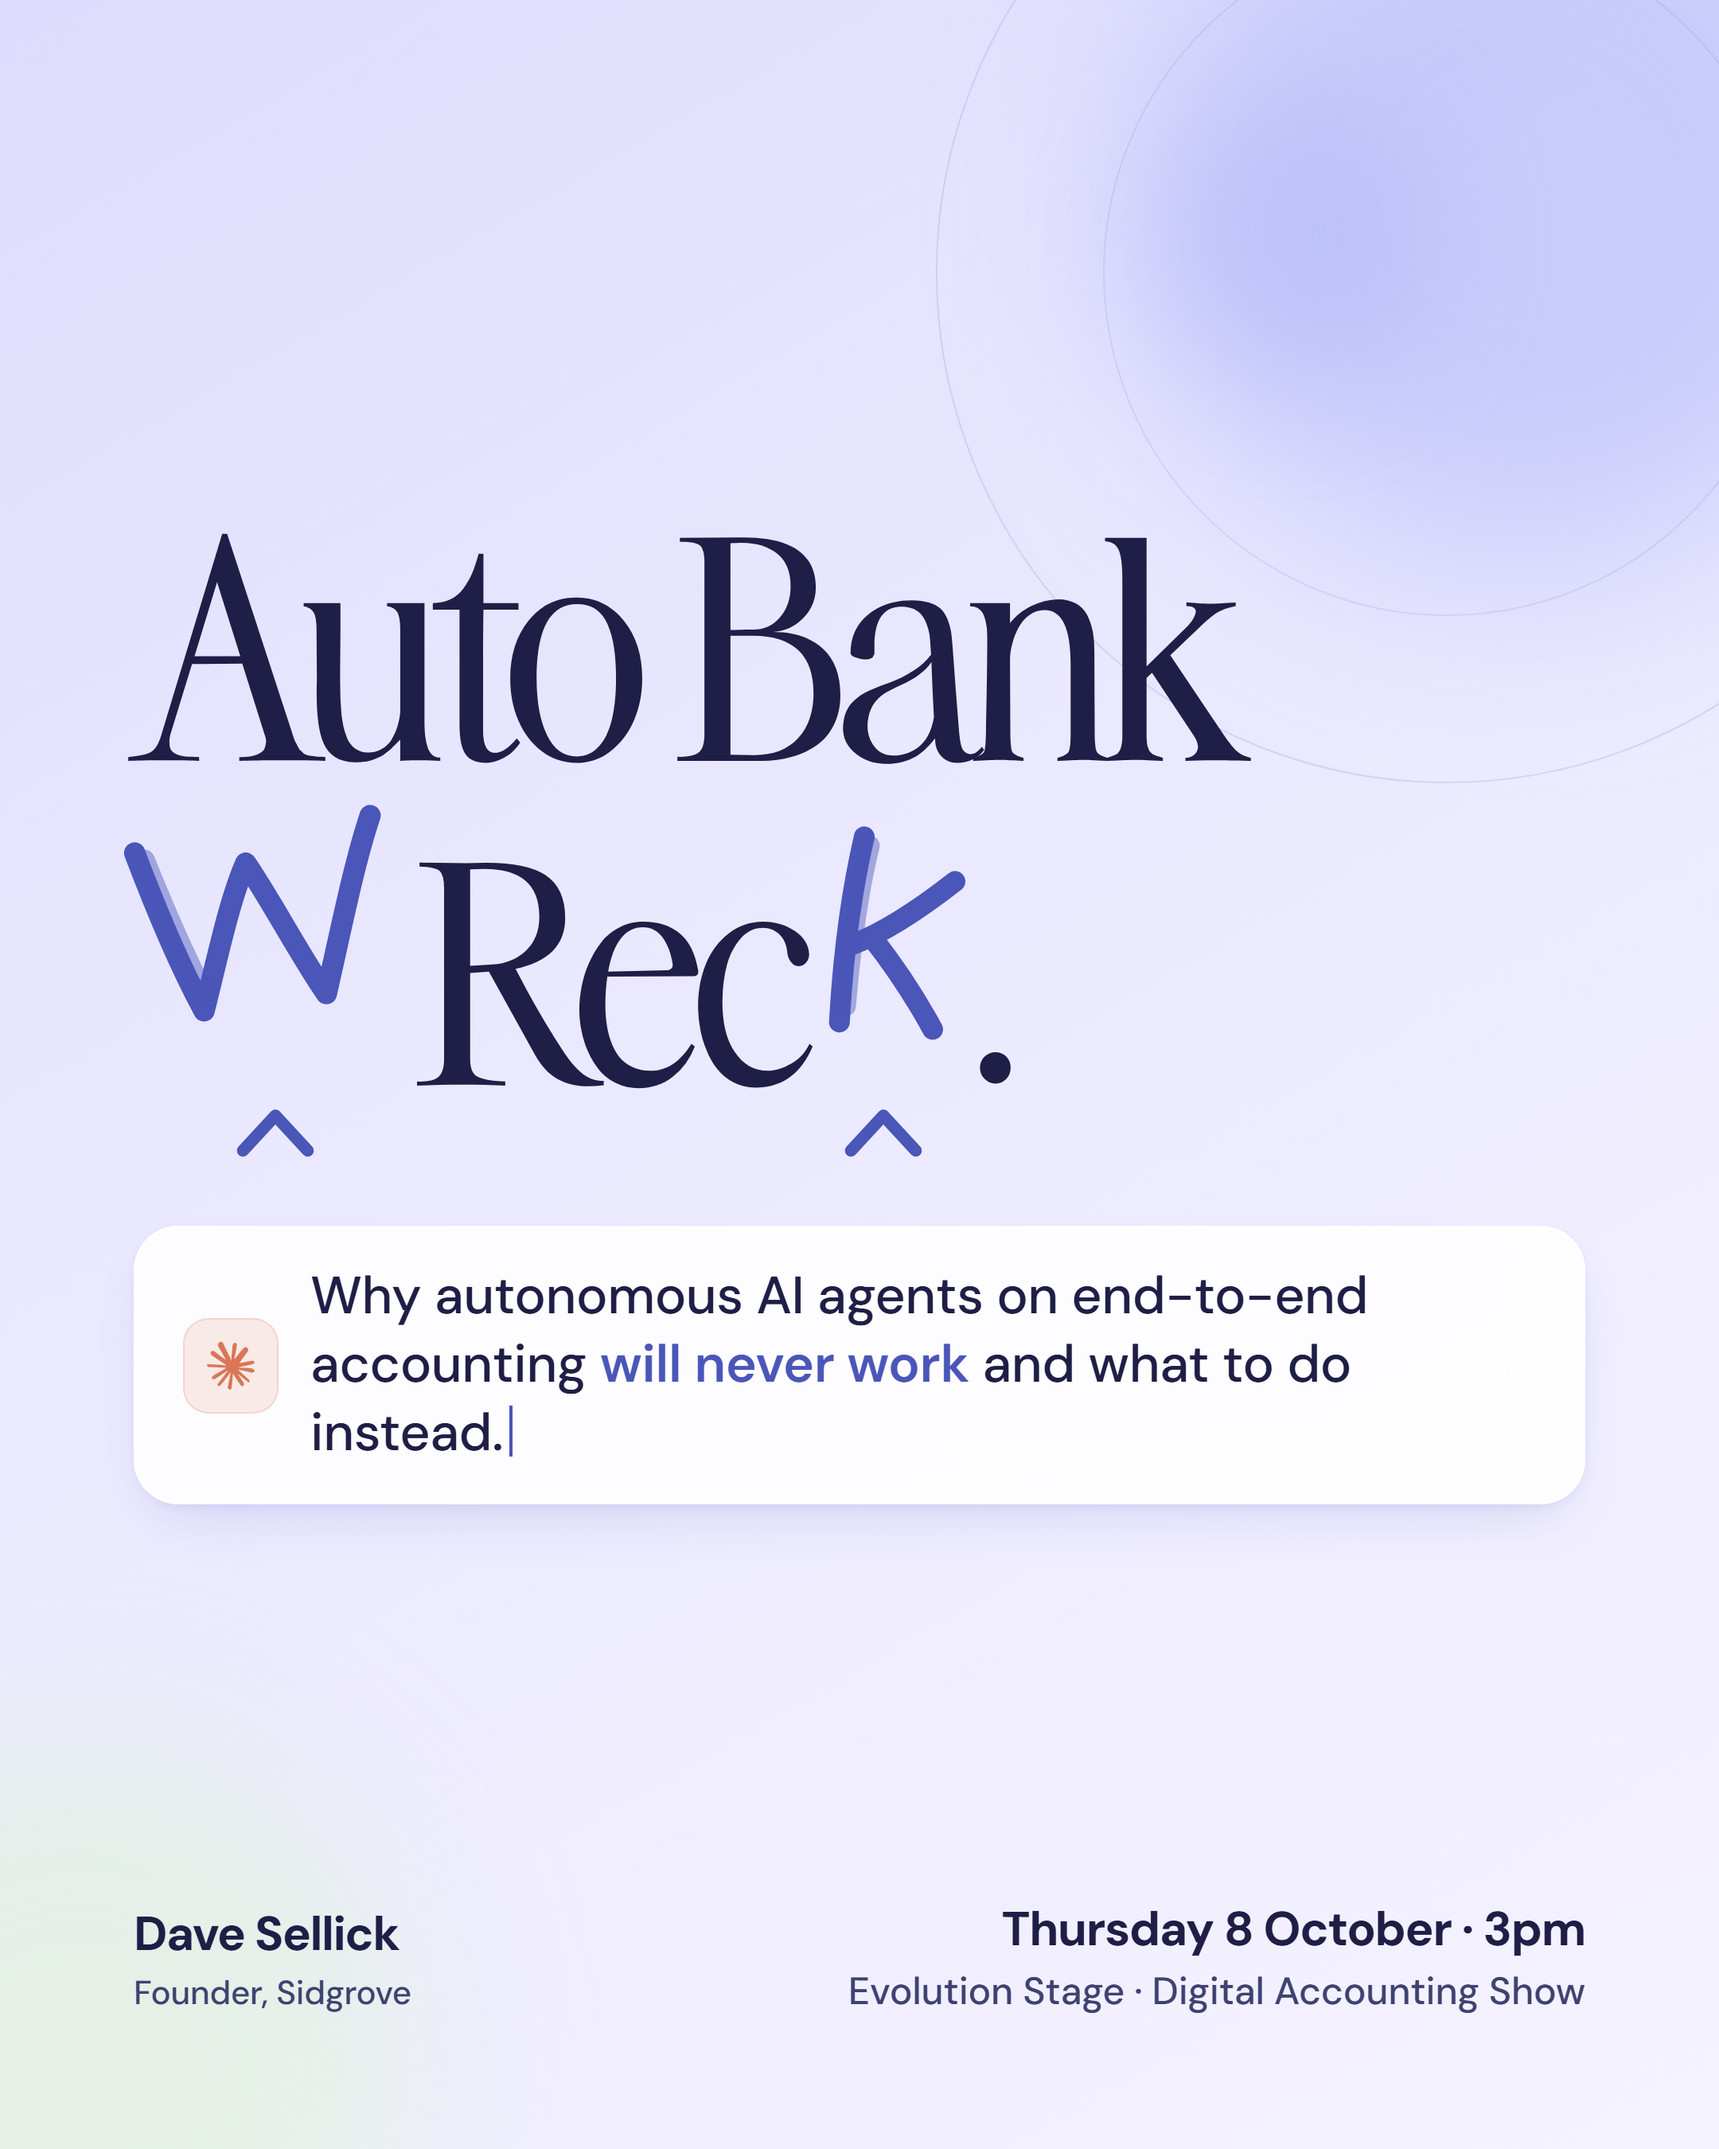
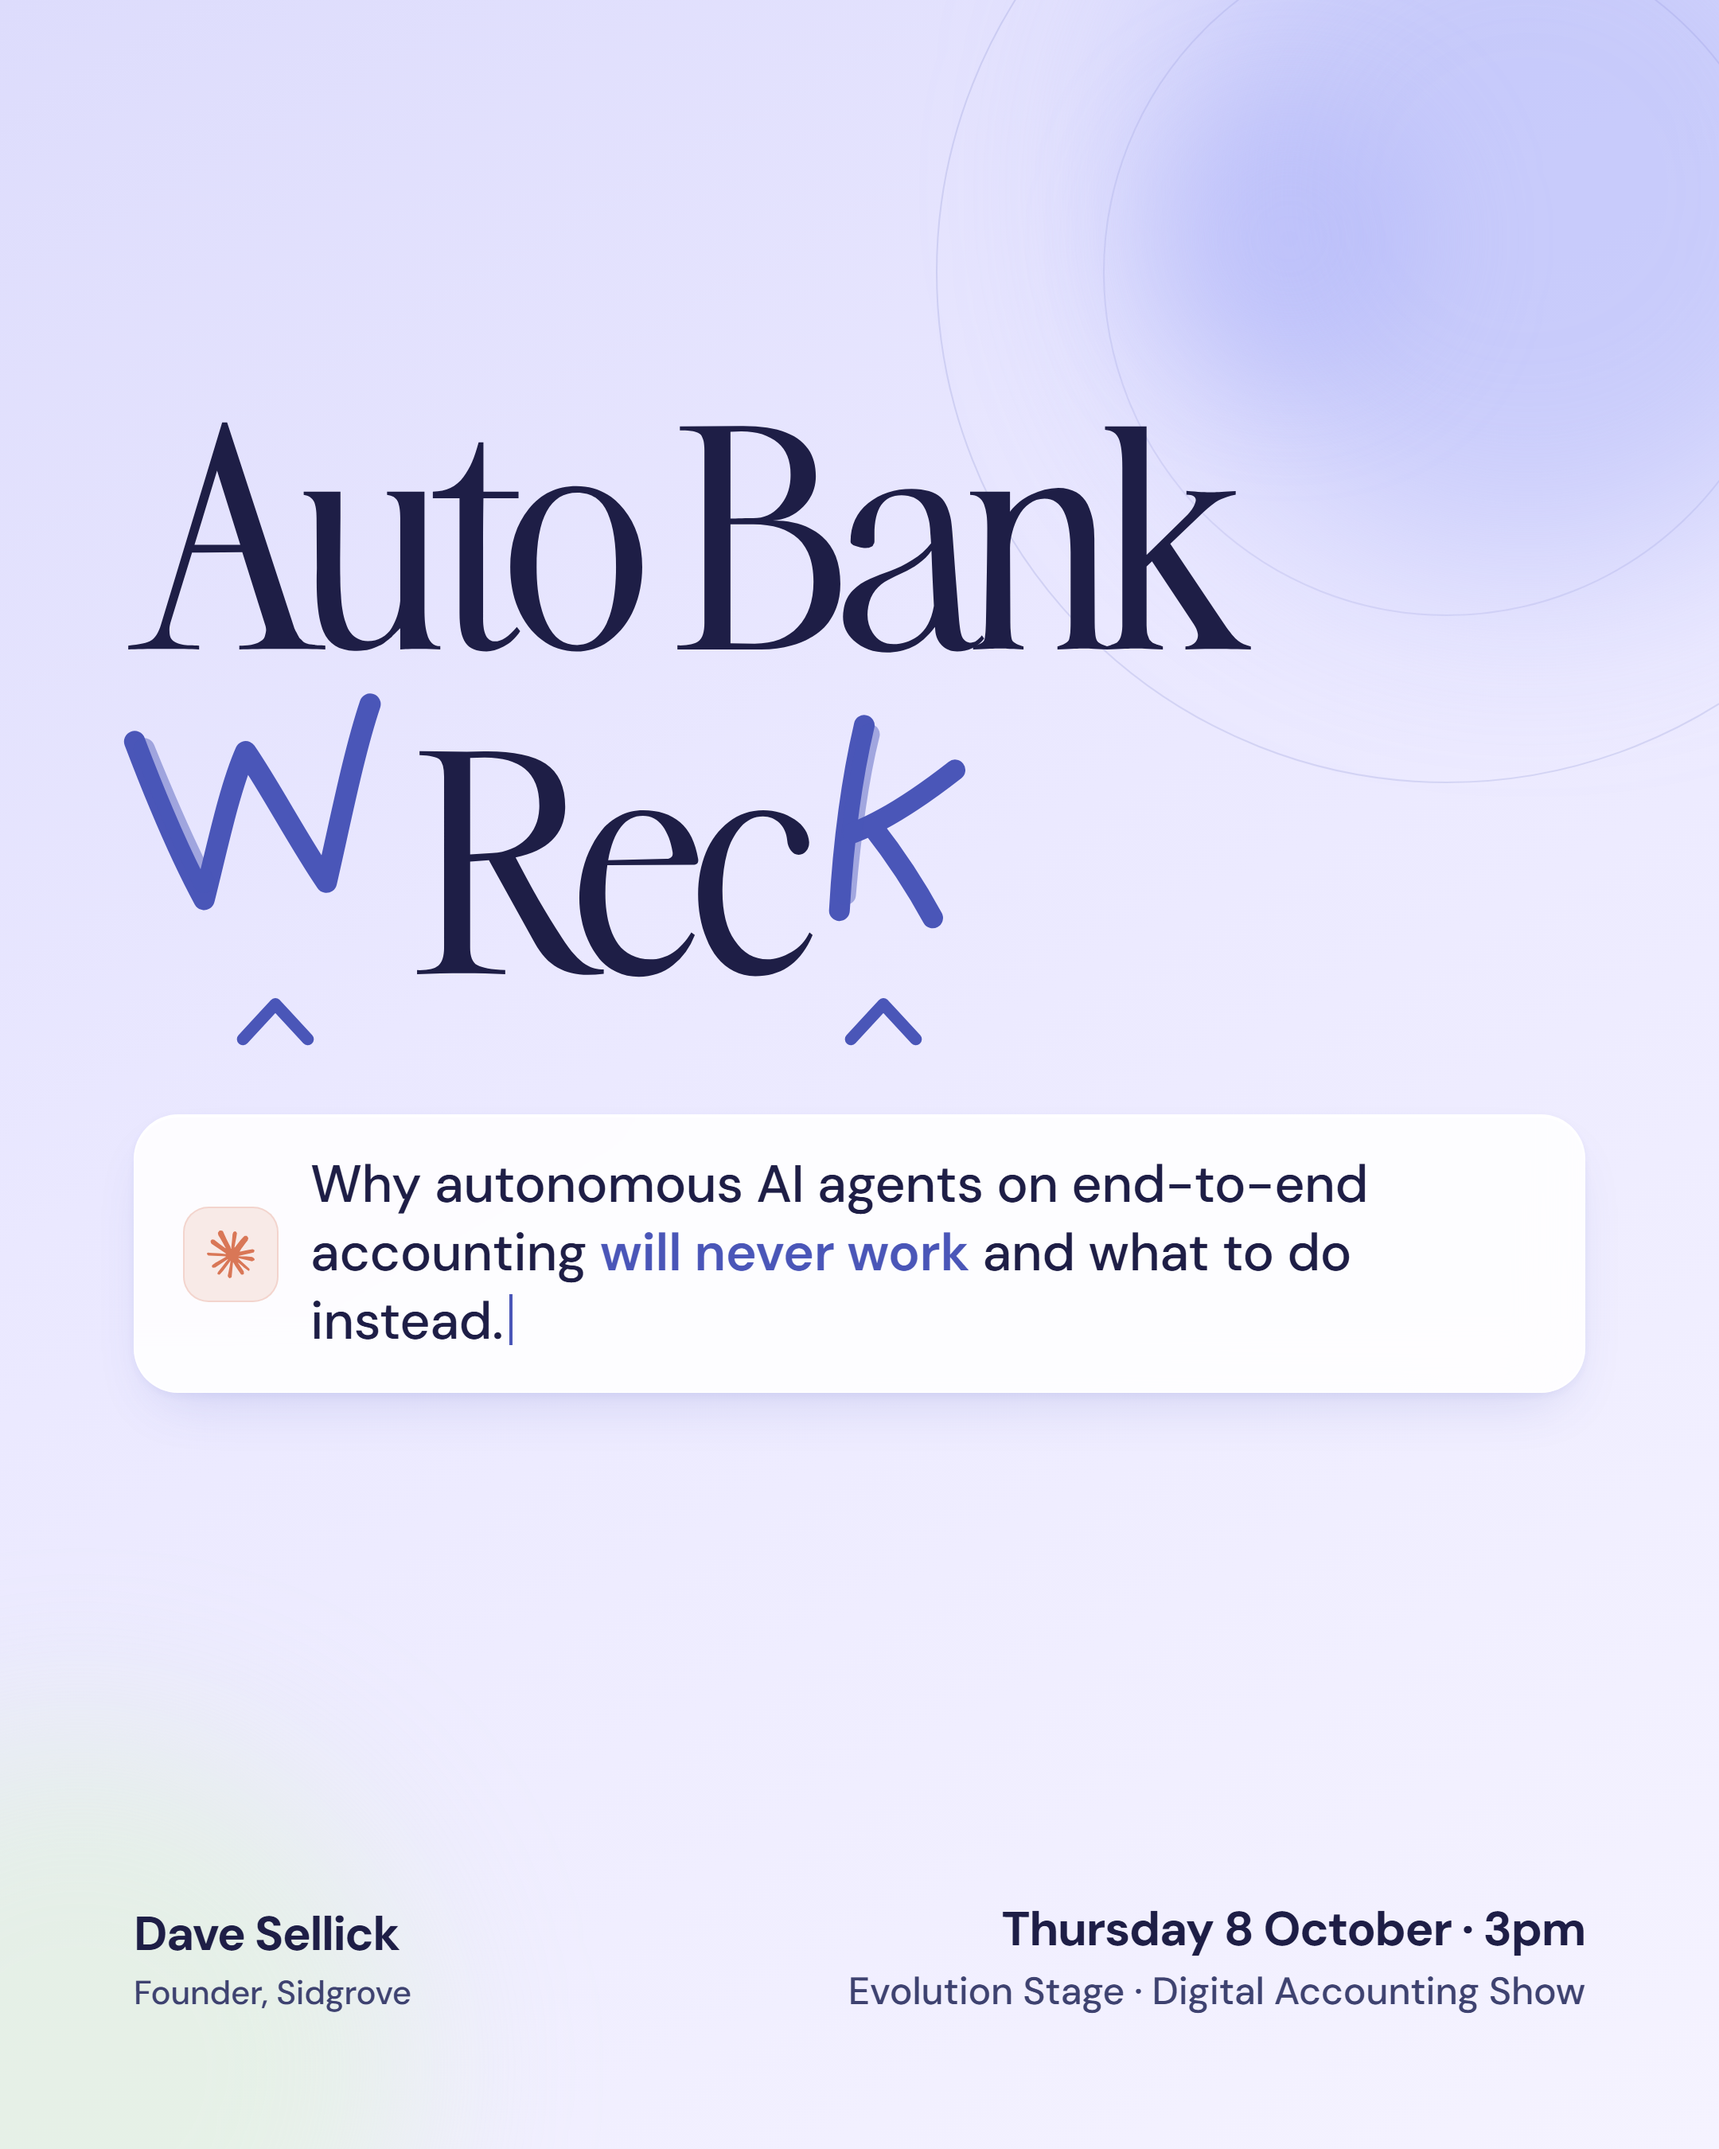
Auto Bank Wreck: no full stop after the cover title; LinkedIn images raised

Changed region(s): [[0.062, 0.1867, 0.8995, 0.6844], [0.1241, 0.56, 0.1551, 0.5911]]

diff --git a/presentations/auto-bank-wreck/index.html b/presentations/auto-bank-wreck/index.html
@@ -1438,7 +1438,7 @@ deck-stage { background: #0a0a0a; }
         <h1 class="display" style="font-size: 200px;">
           Auto Bank<br>
           <span class="wreck2">
-            <span class="ins ins-w"><svg class="ins-letter lw" viewBox="0 0 130 104" aria-hidden="true"><path d="M9 12 C14 34, 22 66, 31 90 C40 68, 50 40, 60 24 C69 42, 79 70, 89 90 C99 64, 110 32, 121 10" fill="none"/><path d="M13 16 C18 36, 25 62, 32 82" fill="none" opacity="0.45"/></svg><svg class="ins-caret" viewBox="0 0 60 40" aria-hidden="true"><path d="M6 34 L30 8 L54 34" fill="none"/></svg></span>Rec<span class="ins ins-k"><svg class="ins-letter lk" viewBox="0 0 74 104" aria-hidden="true"><path d="M16 6 C13 34, 13 66, 15 96" fill="none"/><path d="M62 22 C48 36, 32 50, 17 58" fill="none"/><path d="M26 54 C38 66, 50 80, 60 94" fill="none"/><path d="M19 10 C16 34, 16 60, 17 88" fill="none" opacity="0.45"/></svg><svg class="ins-caret" viewBox="0 0 60 40" aria-hidden="true"><path d="M6 34 L30 8 L54 34" fill="none"/></svg></span>.
+            <span class="ins ins-w"><svg class="ins-letter lw" viewBox="0 0 130 104" aria-hidden="true"><path d="M9 12 C14 34, 22 66, 31 90 C40 68, 50 40, 60 24 C69 42, 79 70, 89 90 C99 64, 110 32, 121 10" fill="none"/><path d="M13 16 C18 36, 25 62, 32 82" fill="none" opacity="0.45"/></svg><svg class="ins-caret" viewBox="0 0 60 40" aria-hidden="true"><path d="M6 34 L30 8 L54 34" fill="none"/></svg></span>Rec<span class="ins ins-k"><svg class="ins-letter lk" viewBox="0 0 74 104" aria-hidden="true"><path d="M16 6 C13 34, 13 66, 15 96" fill="none"/><path d="M62 22 C48 36, 32 50, 17 58" fill="none"/><path d="M26 54 C38 66, 50 80, 60 94" fill="none"/><path d="M19 10 C16 34, 16 60, 17 88" fill="none" opacity="0.45"/></svg><svg class="ins-caret" viewBox="0 0 60 40" aria-hidden="true"><path d="M6 34 L30 8 L54 34" fill="none"/></svg></span>
           </span>
         </h1>
 
